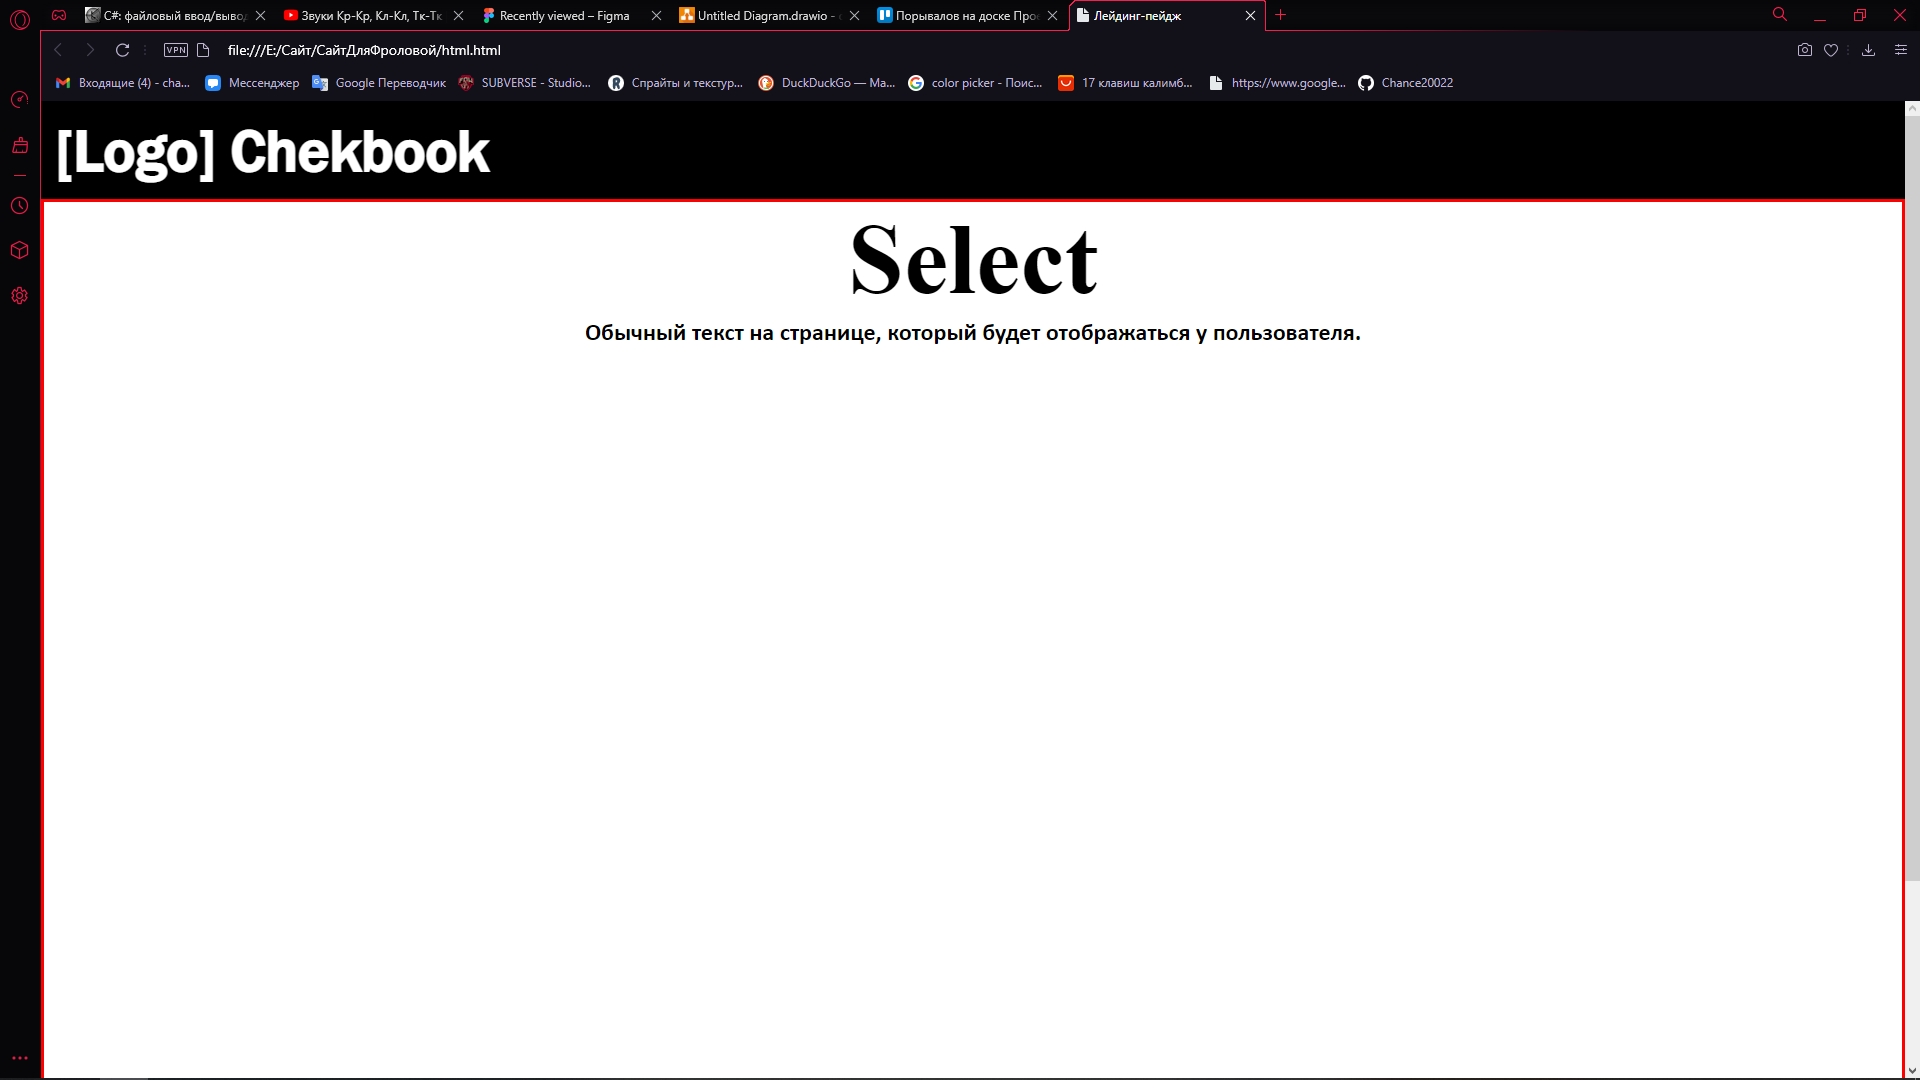
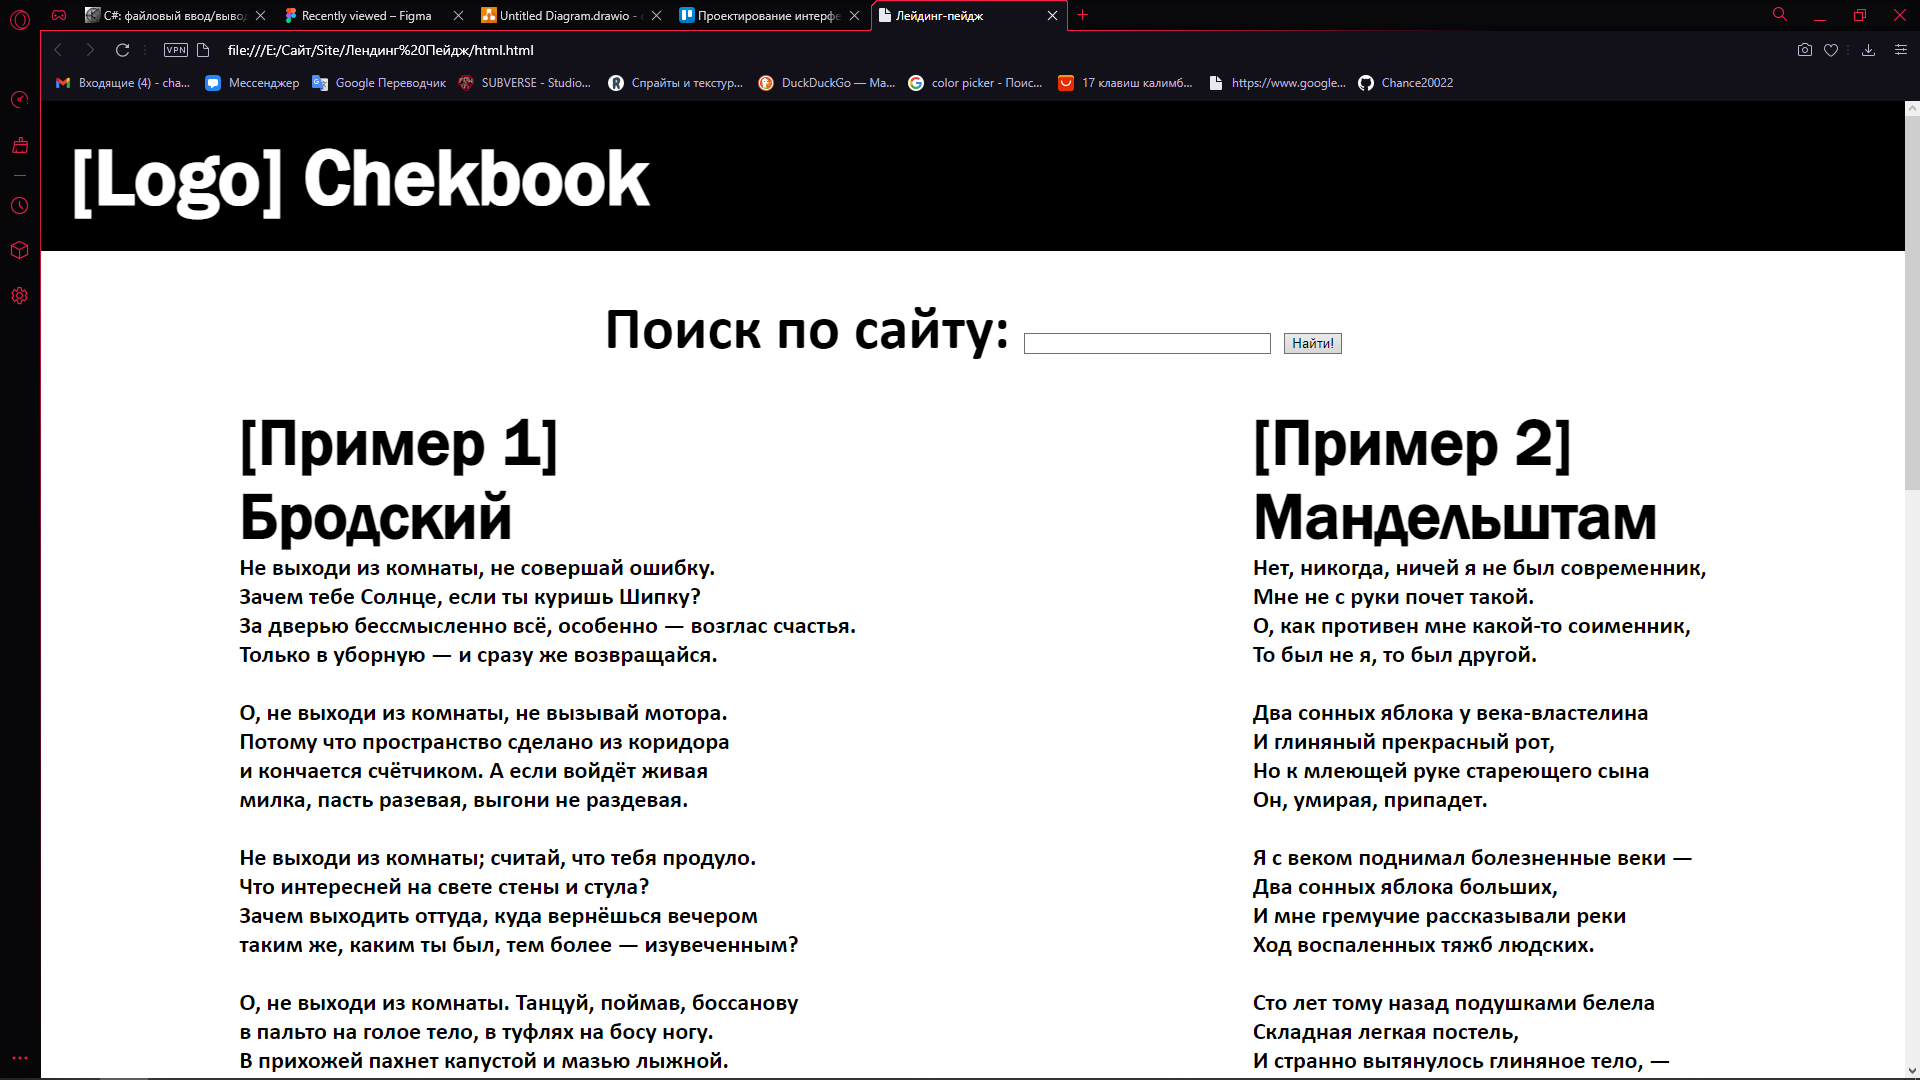
Лендинг пейдж

diff --git a/Лендинг Пейдж/html.html b/Лендинг Пейдж/html.html
@@ -10,18 +10,99 @@
             <div class="header">
                 <img src="" alt="">
                 <h1 style="font-family: 'Franklin Gothic Medium'; color: white;
-                font-size: 60px;">[Logo] Chekbook</h1>
+                font-size: 80px;">[Logo] Chekbook</h1>
             </div>
         </header>
+        <div class="forms">
+            <form action="">
+                <h1 style="font-family: Calibri; font-size: 60px;";>
+                Поиск по сайту:
+                <input type="text" size="30px">
+                <input type="button" value="Найти!"> 
+                </h1>
+            </form>
+        </div>
         <section>
-            <div class="razmetka">
-                <h1 style="font-size: 100px;">Select</h1>
-                <h1 style="font-family: Calibri;">Обычный текст на странице, который  будет отображаться у пользователя.</h1>
+            <div class="textS">
+                <div class="firsttext">
+                    <h1 style="font-size: 65px; font-family:'Franklin Gothic Medium';"> [Пример 1]<br> Бродский
+                    <h1 style="font-family: Calibri;">Не выходи из комнаты, не совершай ошибку.<br>
+                        Зачем тебе Солнце, если ты куришь Шипку?<br>
+                        За дверью бессмысленно всё, особенно — возглас счастья.<br>
+                        Только в уборную — и сразу же возвращайся.<br>
+                        <br>
+                        О, не выходи из комнаты, не вызывай мотора.<br>
+                        Потому что пространство сделано из коридора<br>
+                        и кончается счётчиком. А если войдёт живая<br>
+                        милка, пасть разевая, выгони не раздевая.<br>
+                        <br>
+                        Не выходи из комнаты; считай, что тебя продуло.<br>
+                        Что интересней на свете стены и стула?<br>
+                        Зачем выходить оттуда, куда вернёшься вечером<br>
+                        таким же, каким ты был, тем более — изувеченным?<br>
+                        <br>
+                        О, не выходи из комнаты. Танцуй, поймав, боссанову<br>
+                        в пальто на голое тело, в туфлях на босу ногу.<br>
+                        В прихожей пахнет капустой и мазью лыжной.<br>
+                        Ты написал много букв; ещё одна будет лишней.<br>
+                        <br>
+                        Не выходи из комнаты. О, пускай только комната<br>
+                        догадывается, как ты выглядишь. И вообще инкогнито<br>
+                        эрго сум, как заметила форме в сердцах субстанция.<br>
+                        Не выходи из комнаты! На улице, чай, не Франция.<br>
+                        <br>
+                        Не будь дураком! Будь тем, чем другие не были.<br>
+                        Не выходи из комнаты! То есть дай волю мебели,<br>
+                        слейся лицом с обоями. Запрись и забаррикадируйся<br>
+                        шкафом от хроноса, космоса, эроса, расы, вируса.<br>
+                    </h1>
+                </div>
+                <div class="secondtext">
+                    <h1 style="font-size: 65px; font-family:'Franklin Gothic Medium';">[Пример 2]<br>Мандельштам</h1>
+                    <h1 style="font-family: Calibri;">
+                        Нет, никогда, ничей я не был современник,<br>
+                        Мне не с руки почет такой.<br>
+                        О, как противен мне какой-то соименник,<br>
+                        То был не я, то был другой.<br>
+                        <br>
+                        Два сонных яблока у века-властелина<br>
+                        И глиняный прекрасный рот,<br>
+                        Но к млеющей руке стареющего сына<br>
+                        Он, умирая, припадет.<br>
+                        <br>
+                        Я с веком поднимал болезненные веки —<br>
+                        Два сонных яблока больших,<br>
+                        И мне гремучие рассказывали реки<br>
+                        Ход воспаленных тяжб людских.<br>
+                        <br>
+                        Сто лет тому назад подушками белела<br>
+                        Складная легкая постель,<br>
+                        И странно вытянулось глиняное тело, —<br>
+                        Кончался века первый хмель.<br>
+                        <br>
+                        Среди скрипучего похода мирового —<br>
+                        Какая легкая кровать!<br>
+                        Ну что же, если нам не выковать другого,<br>
+                        Давайте с веком вековать.<br>
+                        <br>
+                        И в жаркой комнате, в кибитке и в палатке<br>
+                        Век умирает, — а потом<br>
+                        Два сонных яблока на роговой облатке<br>
+                        Сияют перистым огнем.<br>   
+                    </h1>
+                </div>
+            </div>
+            <div class="imgsite">
+                <img src="img/631ea6a065b88f0b5944aacfdb8fd48d.jpg" style="width: auto; height: auto;">
+                <img src="img/d9c0e7aec686731e6358158b3814b8f5.jpg" style="width: 498px; height: 965px;">
+                <img src="img/original.jpg" style="width: 548px; height: 970px;">
             </div>
         </section>
         <footer>
             <div class="content">
-
+                <div class="con1"><img src="img/LogoBlack.png" align="left"></div>
+                <div class="con2"><img src="img/LogoBlack.png"></div>
+                <div class="con3"><img src="img/LogoBlack.png" align="right"></div>
             </div>
         </footer>
     </body>

diff --git a/Лендинг Пейдж/css/style.css b/Лендинг Пейдж/css/style.css
@@ -4,7 +4,7 @@ h1, h2, h3, h4, h5, body, table, tr, td{
 }
 
 header{
-    padding: 15px;
+    padding: 30px;
     background-color: #000000;
 }
 
@@ -13,20 +13,59 @@ header{
 }
 
 section{
+    border: red solid 0px;
     background-color: white;
 }
 
-.razmetka{
-    height: 1000px;
-    text-align: center;
-    border: red solid 3px;
+.textS{
+    margin-top: 30px;
+    margin-bottom: 30px;
+    display: flex;
+    justify-content: space-around;
 }
 
 footer{
-    background-color: gray;
+    background-color: rgb(219, 219, 219);
 }
 
 .content{
+    display: flex;
     height: 100px;
+}
+
+.content img{
+    width: 367px;
+    height: 79px;
+}
+
+.content div{
     border: red solid 3px;
+}
+
+.con1{
+    width: 33%;
+}
+
+.con2{
+    text-align: center;
+    width: 33%;
+}
+
+.con3{
+    width: 33%;
+}
+
+.imgsite{
+    align-items: center;
+    display: flex;
+    justify-content: space-between;
+}
+
+.imgsite img{
+    margin: 40px;
+}
+
+.forms{
+    margin: 40px;
+    text-align: center;
 }
